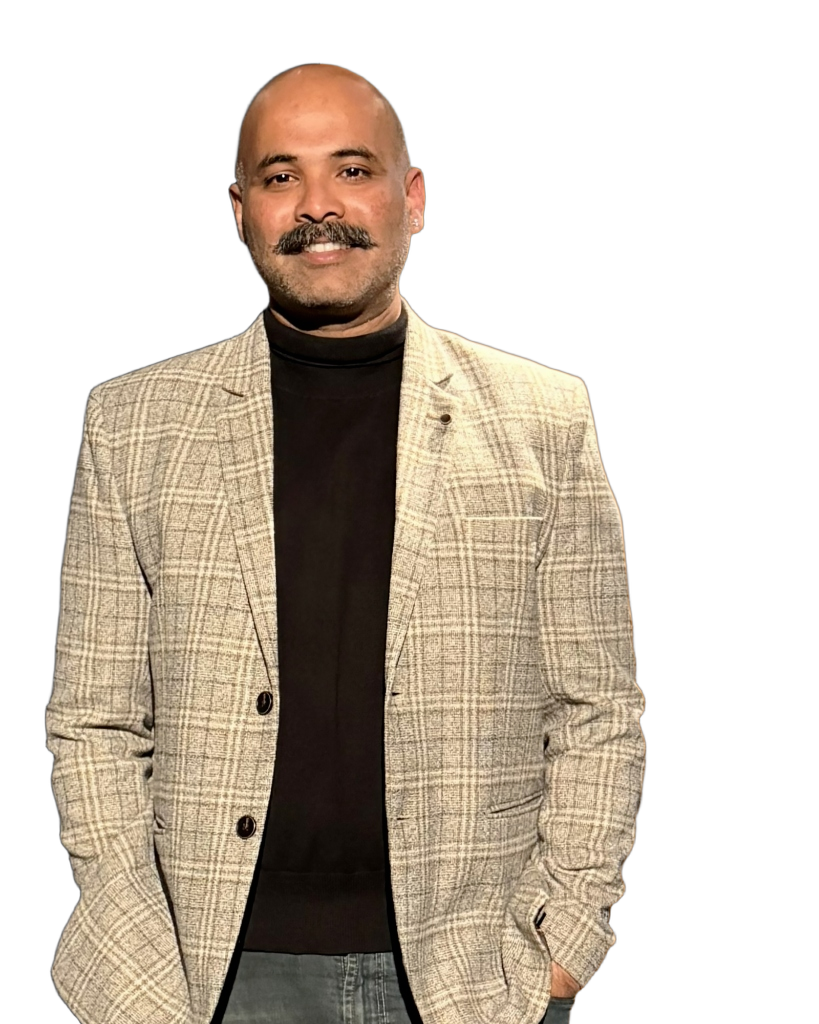
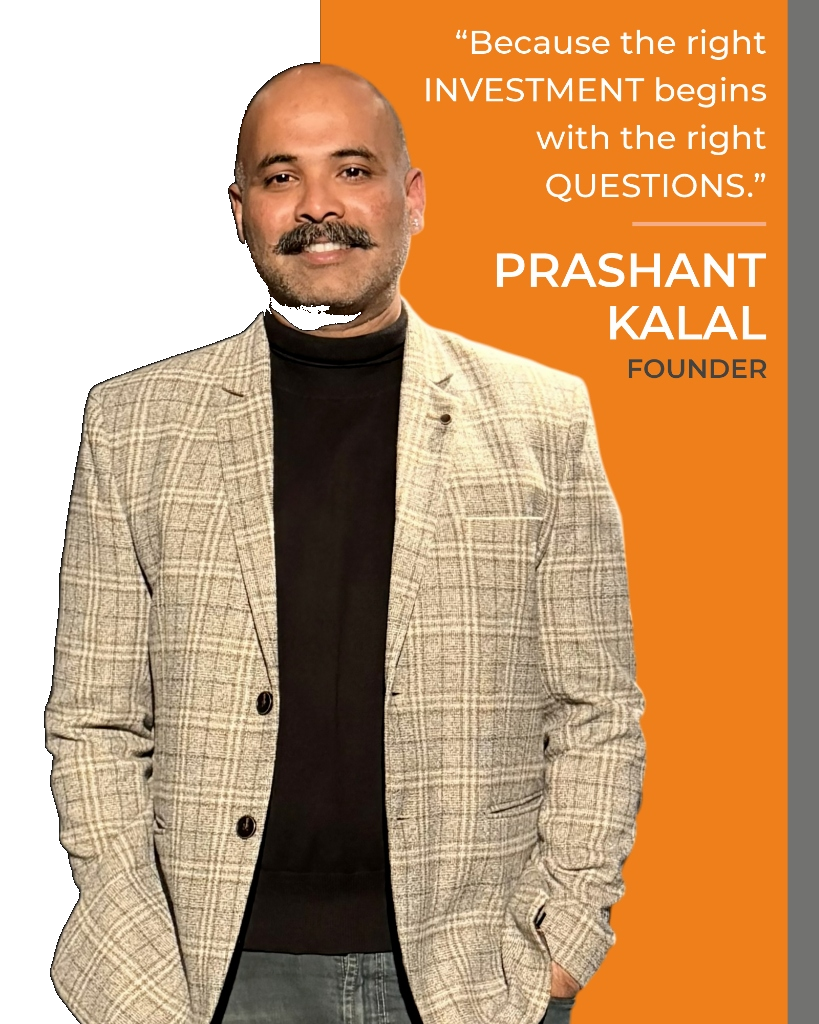
Remove only left black background while preserving orange quote graphic and portrait

diff --git a/src/components/About.tsx b/src/components/About.tsx
@@ -39,7 +39,7 @@ export function About() {
         >
           <div className="split-photo-frame">
             <img
-              src="/founder-pk.png?v=10"
+              src="/founder-pk.png?v=11"
               alt="Prashant Kalal"
               className="max-h-[26rem] w-auto max-w-full object-contain"
               width={819}
